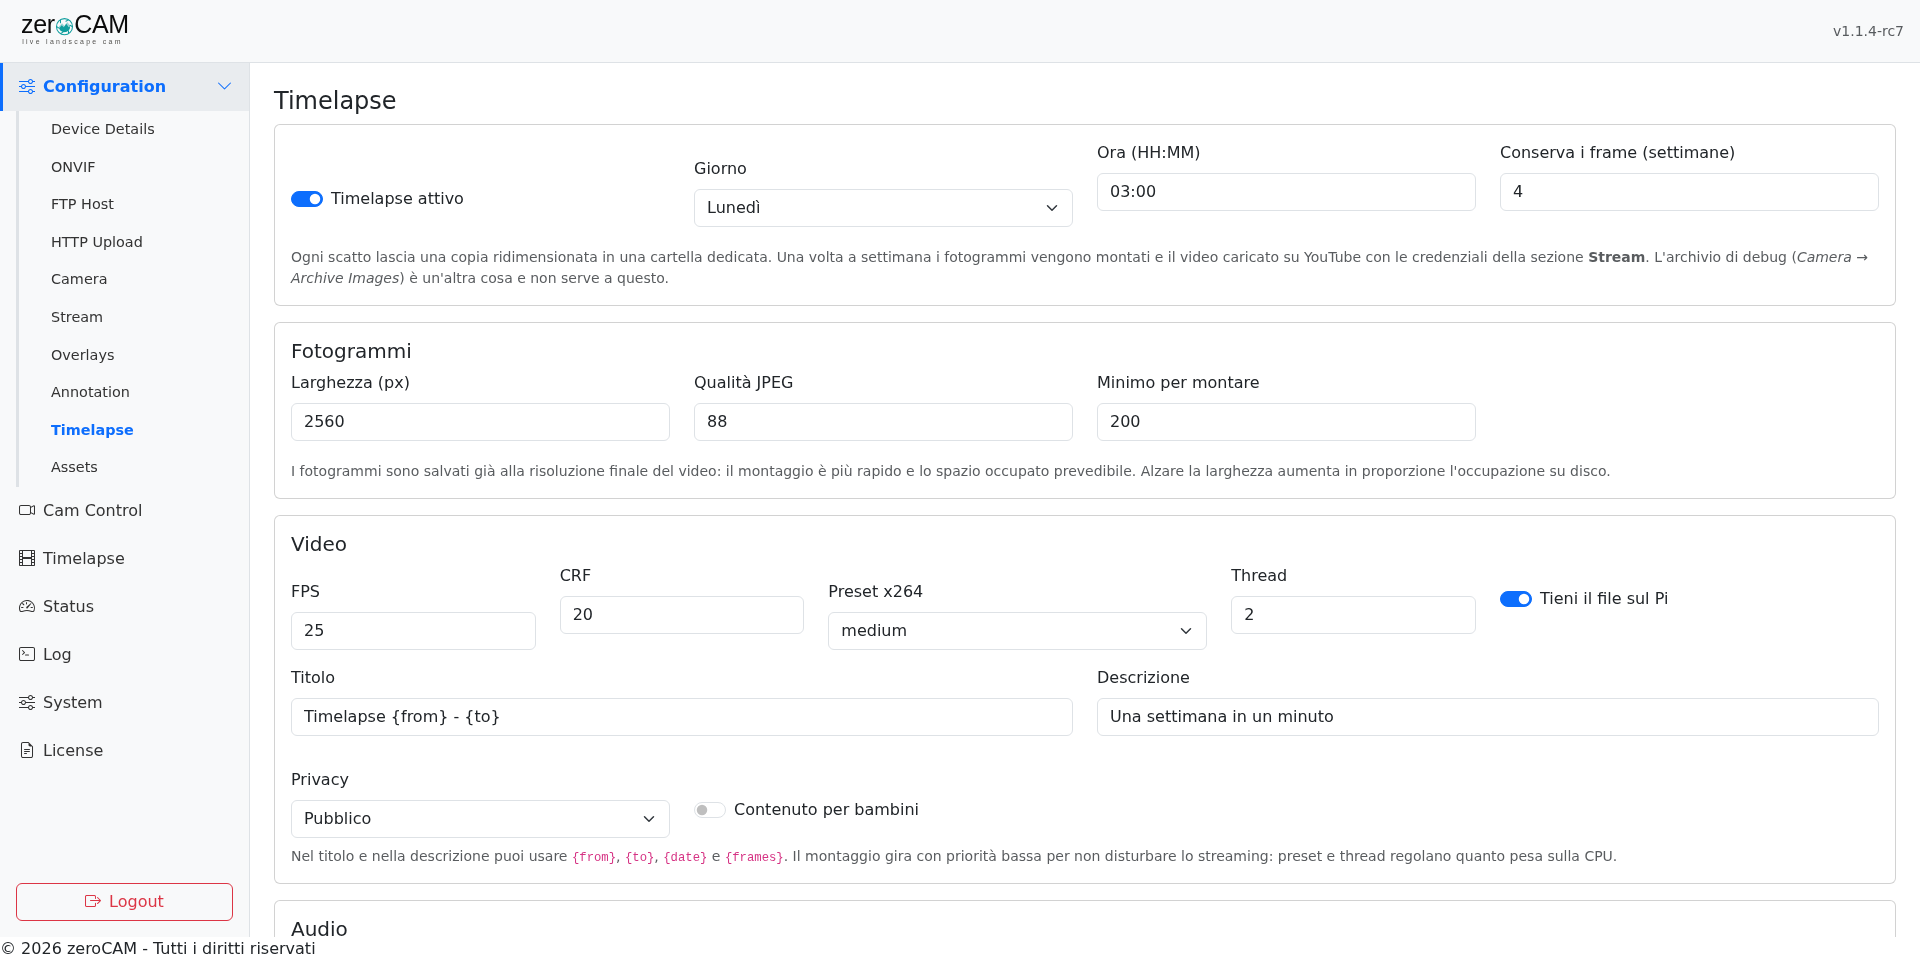
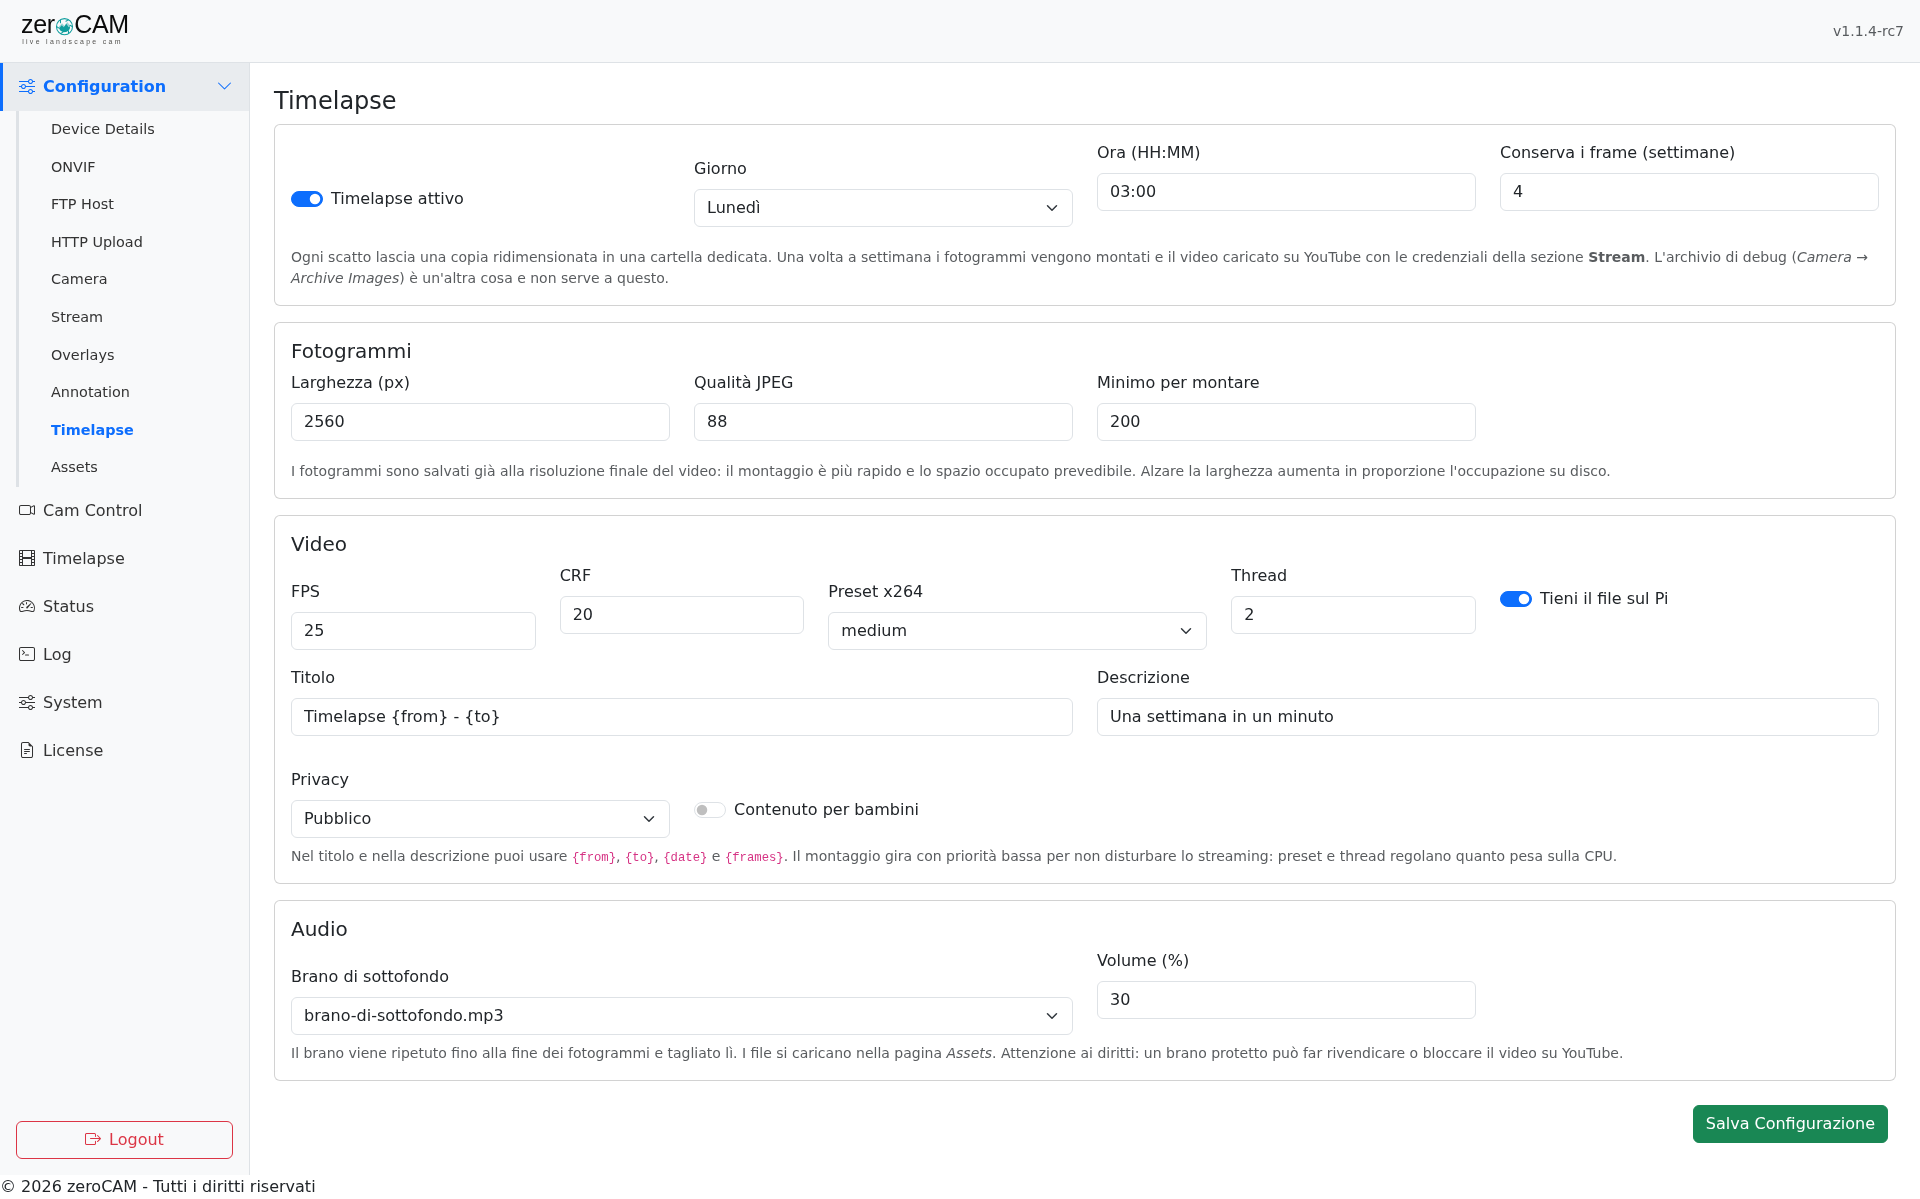
Capture whole pages, not just the first screenful
The window was fixed at 961 pixels while the interface scrolls inside
its content area, so six pages were cut off - Stream lost 875 pixels,
everything from the YouTube credentials down. The generator now
measures the overflow and grows the window to fit before shooting.

diff --git a/doc/img/genera-screenshot.py b/doc/img/genera-screenshot.py
@@ -23,6 +23,7 @@ REPO = "/home/mgiolo/Personale/repos/zeroCam"
 OUT = os.path.join(os.path.dirname(os.path.abspath(__file__)), "shots")
 VERSION = sys.argv[1] if len(sys.argv) > 1 else "v1.1.4"
 PORT = 8931
+HEIGHT = 961
 
 sys.path.insert(0, REPO)
 from lib.components.config_manager import DEFAULT_SECTIONS  # noqa: E402
@@ -228,7 +229,7 @@ def capture():
     os.makedirs(OUT, exist_ok=True)
     with sync_playwright() as p:
         browser = p.chromium.launch()
-        page = browser.new_page(viewport={"width": 1920, "height": 961})
+        page = browser.new_page(viewport={"width": 1920, "height": HEIGHT})
         for name, main, sub in PAGES:
             page.goto(f"http://127.0.0.1:{PORT}/", wait_until="load")
             page.wait_for_selector(".sidebar")
@@ -240,8 +241,24 @@ def capture():
                 }""", [main, sub])
             # Grafici e immagini hanno bisogno di un attimo per comparire
             page.wait_for_timeout(2500)
+
+            # La pagina non scorre: e' l'area centrale ad avere la sua
+            # barra. Una finestra alta 961 taglierebbe tutto cio' che sta
+            # sotto, quindi si misura l'eccedenza e si allarga la finestra
+            # fino a farci stare la pagina intera.
+            extra = page.evaluate("""() => {
+                const main = document.querySelector('.content-area');
+                if (!main) return 0;
+                return Math.max(0, main.scrollHeight - main.clientHeight);
+            }""")
+            if extra:
+                page.set_viewport_size({"width": 1920, "height": HEIGHT + int(extra) + 8})
+                page.wait_for_timeout(900)
+
             page.screenshot(path=os.path.join(OUT, name + ".png"))
-            print("scritto", name)
+            if extra:
+                page.set_viewport_size({"width": 1920, "height": HEIGHT})
+            print("scritto", name, f"(+{int(extra)}px)" if extra else "")
         browser.close()
 
 
